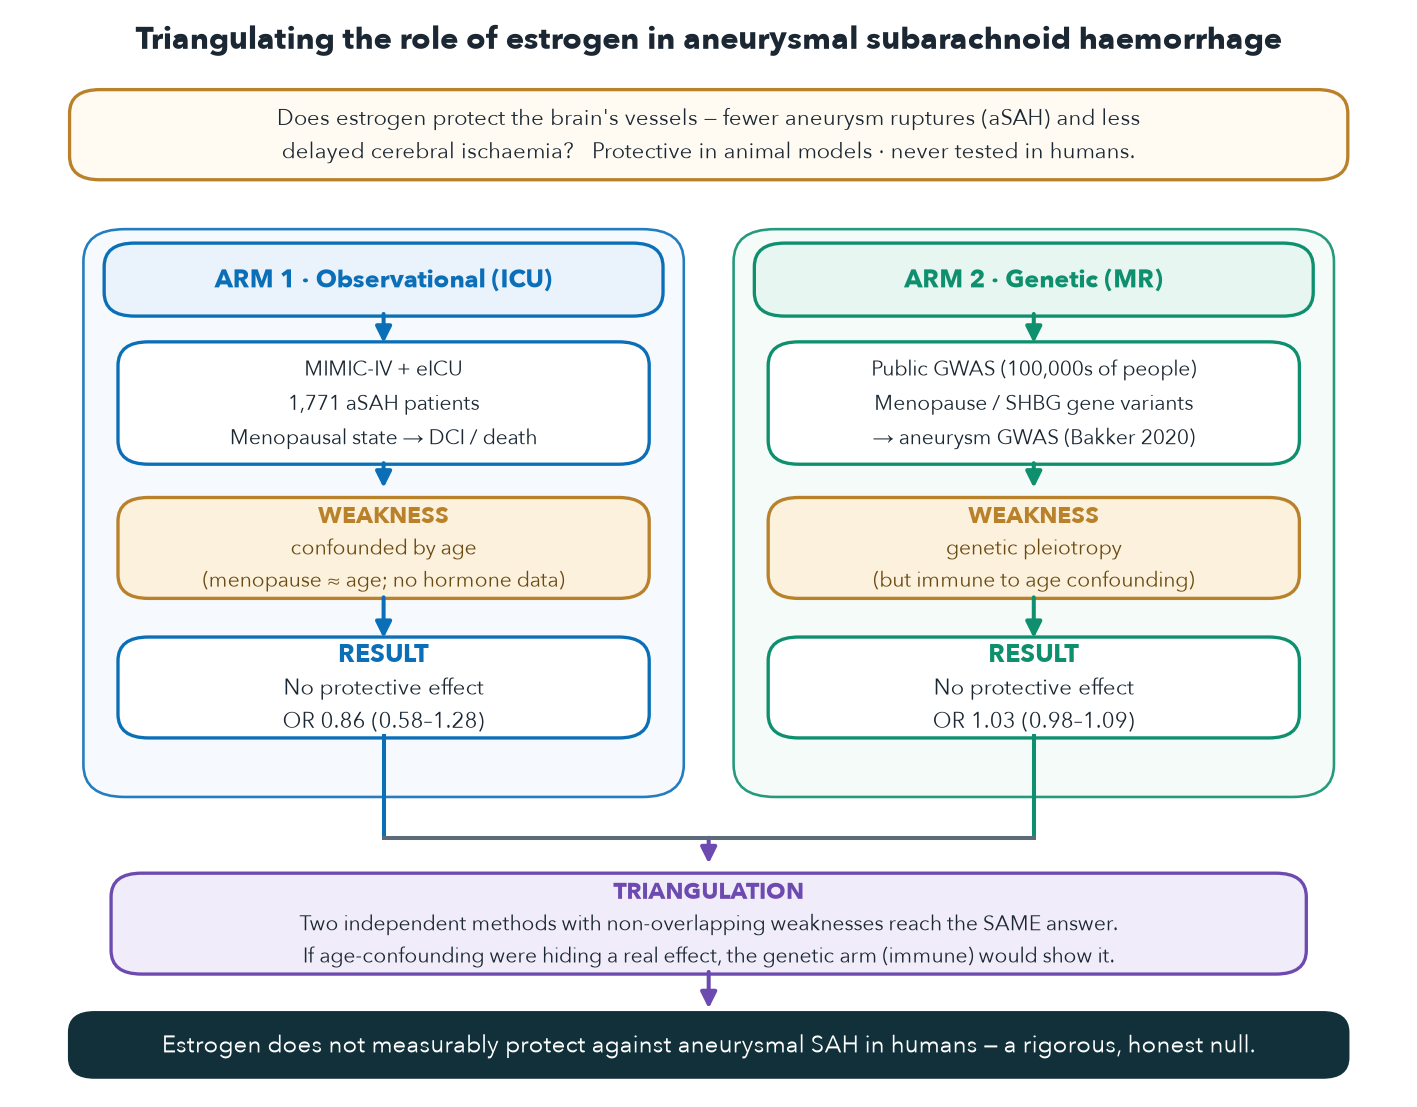
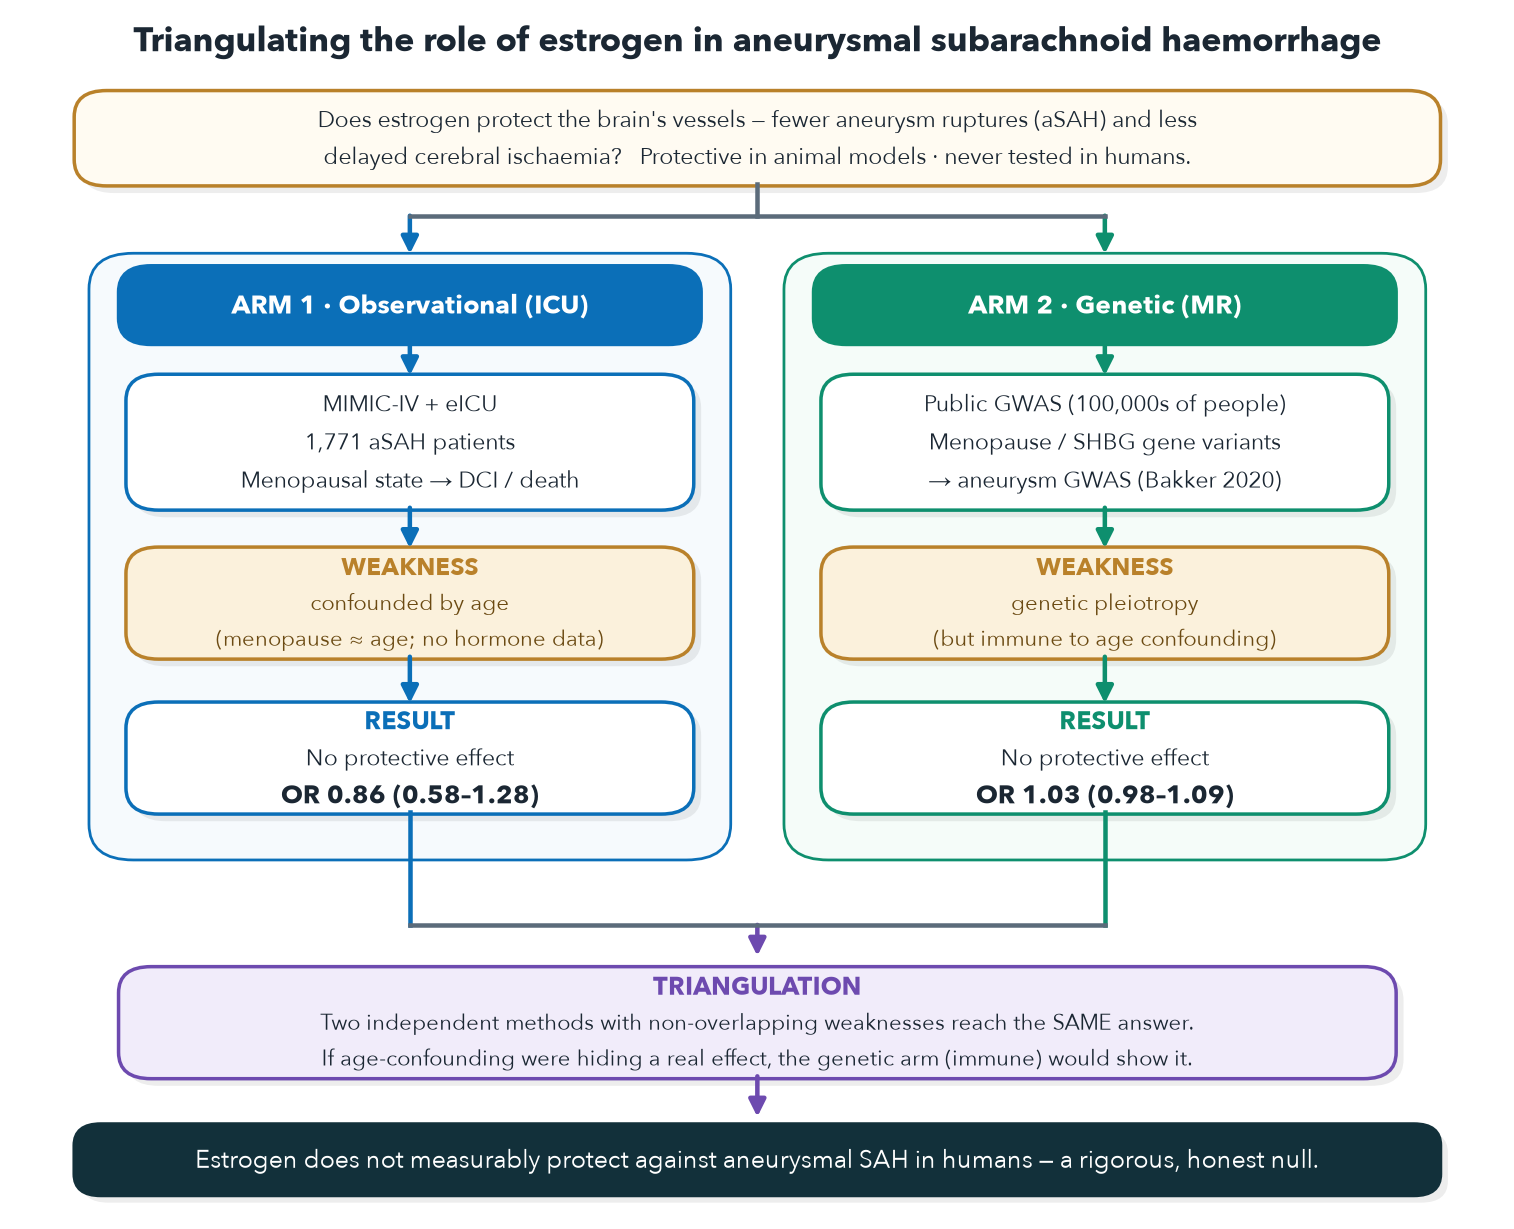
Figures: polish workflow diagram + add methods-only variant
- triangulation_workflow.png: solid header banners, drop shadows, symmetric
  top-fork/bottom-merge connectors, emphasized OR numbers
- triangulation_methods.png: methods-only (DATA/DESIGN/ANALYSIS pipeline per
  arm, no results or conclusion)
- both audited for text-fit, alignment, and connector cleanliness

Changed region(s): [[0.0311, 0.0, 0.9626, 0.8907], [0.1242, 0.9214, 0.9005, 0.9521]]

diff --git a/manuscript/figures/triangulation_workflow.py b/manuscript/figures/triangulation_workflow.py
@@ -1,7 +1,8 @@
 """One-page workflow diagram: triangulating the role of estrogen in aSAH.
 
-Design goals: swimlanes to group each arm, right-angle merge connectors (no
-diagonals), concise text properly centered in every box, restrained palette.
+Design: swimlanes per arm, solid header banners, soft drop shadows for depth,
+symmetric top-fork / bottom-merge right-angle connectors, emphasized result
+numbers, restrained palette, clean sans-serif, text centered in every box.
 """
 import matplotlib
 matplotlib.use("Agg")
@@ -12,102 +13,118 @@ from matplotlib.patches import FancyArrowPatch, FancyBboxPatch
 plt.rcParams.update({"font.family": ["Avenir Next", "Arial"], "font.size": 10})
 
 INK = "#1b2733"; MUTE = "#5b6b7a"
-BLUE = "#0B6FB8"; BLUE_BG = "#EAF3FB"; BLUE_PANEL = "#F5F9FD"
-GREEN = "#0E8F6E"; GREEN_BG = "#E8F6F1"; GREEN_PANEL = "#F4FBF8"
+BLUE = "#0B6FB8"; BLUE_BG = "#EAF3FB"; BLUE_PANEL = "#F6FAFD"
+GREEN = "#0E8F6E"; GREEN_BG = "#E8F6F1"; GREEN_PANEL = "#F5FCF9"
 PUR = "#6D4AAF"; PUR_BG = "#F1ECFA"
 AMBER = "#B9812A"; AMBER_BG = "#FBF1DC"
+SHADOW = (0, 0, 0, 0.07)
 
-fig, ax = plt.subplots(figsize=(10.5, 8.2)); ax.axis("off")
+fig, ax = plt.subplots(figsize=(10.6, 8.6)); ax.axis("off")
 ax.set_xlim(0, 100); ax.set_ylim(0, 100)
 
 
-def card(x, y, w, h, lines, *, head=None, fc="white", ec=BLUE, tc=INK,
-         head_c=None, fs=9.3, lh=3.3, rs=2.2, lw=1.4):
-    """A rounded card with vertically-centered, optionally-headed text."""
+def _round(x, y, w, h, fc, ec, lw, rs):
     ax.add_patch(FancyBboxPatch((x - w / 2, y - h / 2), w, h,
                  boxstyle=f"round,pad=0.2,rounding_size={rs}", fc=fc, ec=ec, lw=lw))
-    items = ([("__head__", head)] if head else []) + [("body", ln) for ln in lines]
+
+
+def card(x, y, w, h, lines, *, head=None, fc="white", ec=BLUE, tc=INK, head_c=None,
+         fs=9.3, lh=3.3, rs=2.2, lw=1.4, shadow=True, emph_last=False):
+    if shadow:
+        _round(x + 0.5, y - 0.6, w, h, SHADOW, "none", 0, rs)
+    _round(x, y, w, h, fc, ec, lw, rs)
+    items = ([("h", head)] if head else []) + [("b", ln) for ln in lines]
     total = (len(items) - 1) * lh
     top = y + total / 2
     for i, (kind, txt) in enumerate(items):
         yy = top - i * lh
-        if kind == "__head__":
+        if kind == "h":
             ax.text(x, yy, txt, ha="center", va="center", fontsize=fs + 1.0,
                     color=head_c or ec, fontweight="bold")
         else:
-            ax.text(x, yy, txt, ha="center", va="center", fontsize=fs, color=tc)
+            last = (i == len(items) - 1)
+            ax.text(x, yy, txt, ha="center", va="center",
+                    fontsize=fs + (1.3 if emph_last and last else 0),
+                    fontweight="bold" if emph_last and last else "normal", color=tc)
 
 
-def varrow(x, y1, y2, color=MUTE, lw=1.7):
+def varrow(x, y1, y2, color=MUTE, lw=1.8):
     ax.add_patch(FancyArrowPatch((x, y1), (x, y2), arrowstyle="-|>",
                  mutation_scale=14, color=color, lw=lw, shrinkA=0, shrinkB=0))
 
 
 # title
-ax.text(50, 97, "Triangulating the role of estrogen in aneurysmal subarachnoid haemorrhage",
-        ha="center", fontsize=13, fontweight="bold", color=INK)
+ax.text(50, 97.3, "Triangulating the role of estrogen in aneurysmal subarachnoid haemorrhage",
+        ha="center", fontsize=13.5, fontweight="bold", color=INK)
 
 # question
-card(50, 89, 92, 8, [
+card(50, 90, 92, 7.6, [
     "Does estrogen protect the brain's vessels — fewer aneurysm ruptures (aSAH) and less",
     "delayed cerebral ischaemia?   Protective in animal models · never tested in humans."],
     fc="#FFFBF2", ec=AMBER, fs=9.2, lh=3.1)
 
-# swimlane panels
-ax.add_patch(FancyBboxPatch((5, 27.5), 43, 52.5, boxstyle="round,pad=0.2,rounding_size=3",
-             fc=BLUE_PANEL, ec=BLUE, lw=1.1, alpha=0.9))
-ax.add_patch(FancyBboxPatch((52, 27.5), 43, 52.5, boxstyle="round,pad=0.2,rounding_size=3",
-             fc=GREEN_PANEL, ec=GREEN, lw=1.1, alpha=0.9))
+# top fork (question -> both arm headers), mirrors the bottom merge
+fork_y = 83.5
+ax.add_line(Line2D([50, 50], [86.2, fork_y], color=MUTE, lw=1.8))
+ax.add_line(Line2D([26.5, 73.5], [fork_y, fork_y], color=MUTE, lw=1.8))
+varrow(26.5, fork_y, 80.3, color=BLUE)
+varrow(73.5, fork_y, 80.3, color=GREEN)
 
-# headers
-card(26.5, 75.5, 40, 6.4, [], head="ARM 1 · Observational (ICU)", fc=BLUE_BG, ec=BLUE, fs=9.4)
-card(73.5, 75.5, 40, 6.4, [], head="ARM 2 · Genetic (MR)", fc=GREEN_BG, ec=GREEN, fs=9.4)
+# swimlane panels
+_round(26.5, 54.9, 43, 50.5, BLUE_PANEL, BLUE, 1.1, 3)
+_round(73.5, 54.9, 43, 50.5, GREEN_PANEL, GREEN, 1.1, 3)
+
+# solid header banners
+card(26.5, 76, 39, 6.2, [], head="ARM 1 · Observational (ICU)", fc=BLUE, ec=BLUE,
+     head_c="white", fs=9.6, shadow=False)
+card(73.5, 76, 39, 6.2, [], head="ARM 2 · Genetic (MR)", fc=GREEN, ec=GREEN,
+     head_c="white", fs=9.6, shadow=False)
 
 # setup
-card(26.5, 64, 38, 11, [
+card(26.5, 64.5, 38, 11, [
     "MIMIC-IV + eICU", "1,771 aSAH patients", "Menopausal state → DCI / death"],
     ec=BLUE, fs=9.1, lh=3.2)
-card(73.5, 64, 38, 11, [
+card(73.5, 64.5, 38, 11, [
     "Public GWAS (100,000s of people)", "Menopause / SHBG gene variants",
     "→ aneurysm GWAS (Bakker 2020)"], ec=GREEN, fs=9.1, lh=3.2)
 
 # weakness
-card(26.5, 50.5, 38, 9, ["confounded by age", "(menopause ≈ age; no hormone data)"],
+card(26.5, 51, 38, 9, ["confounded by age", "(menopause ≈ age; no hormone data)"],
      head="WEAKNESS", fc=AMBER_BG, ec=AMBER, tc="#6b4a12", fs=8.7, lh=3.0)
-card(73.5, 50.5, 38, 9, ["genetic pleiotropy", "(but immune to age confounding)"],
+card(73.5, 51, 38, 9, ["genetic pleiotropy", "(but immune to age confounding)"],
      head="WEAKNESS", fc=AMBER_BG, ec=AMBER, tc="#6b4a12", fs=8.7, lh=3.0)
 
-# result
-card(26.5, 37.5, 38, 9, ["No protective effect", "OR 0.86 (0.58–1.28)"],
-     head="RESULT", fc="white", ec=BLUE, fs=9.4, lh=3.1)
-card(73.5, 37.5, 38, 9, ["No protective effect", "OR 1.03 (0.98–1.09)"],
-     head="RESULT", fc="white", ec=GREEN, fs=9.4, lh=3.1)
+# result (emphasize the OR)
+card(26.5, 38, 38, 9, ["No protective effect", "OR 0.86 (0.58–1.28)"],
+     head="RESULT", fc="white", ec=BLUE, fs=9.2, lh=3.1, emph_last=True)
+card(73.5, 38, 38, 9, ["No protective effect", "OR 1.03 (0.98–1.09)"],
+     head="RESULT", fc="white", ec=GREEN, fs=9.2, lh=3.1, emph_last=True)
 
-# intra-lane arrows (between box edges)
+# intra-lane arrows
 for x, c in [(26.5, BLUE), (73.5, GREEN)]:
-    varrow(x, 72.3, 69.6, color=c)   # header -> setup
-    varrow(x, 58.4, 56.1, color=c)   # setup -> weakness
-    varrow(x, 45.9, 42.1, color=c)   # weakness -> result
+    varrow(x, 72.8, 70.1, color=c)
+    varrow(x, 59.0, 55.6, color=c)
+    varrow(x, 46.5, 42.6, color=c)
 
-# merge connectors (right-angle)
-rail = 23.5
+# bottom merge (right-angle)
+rail = 24
 for x, c in [(26.5, BLUE), (73.5, GREEN)]:
-    ax.add_line(Line2D([x, x], [33.0, rail], color=c, lw=1.7))
-ax.add_line(Line2D([26.5, 73.5], [rail, rail], color=MUTE, lw=1.7))
-varrow(50, rail, 21.1, color=PUR)
+    ax.add_line(Line2D([x, x], [33.5, rail], color=c, lw=1.8))
+ax.add_line(Line2D([26.5, 73.5], [rail, rail], color=MUTE, lw=1.8))
+varrow(50, rail, 21.4, color=PUR)
 
 # convergence
-card(50, 15.5, 86, 9, [
+card(50, 15.8, 86, 9, [
     "Two independent methods with non-overlapping weaknesses reach the SAME answer.",
     "If age-confounding were hiding a real effect, the genetic arm (immune) would show it."],
     head="TRIANGULATION", fc=PUR_BG, ec=PUR, fs=8.9, lh=3.0)
-varrow(50, 11.0, 7.6, color=PUR)
+varrow(50, 11.3, 7.9, color=PUR)
 
 # conclusion
-card(50, 4.2, 92, 5.6, [
+card(50, 4.3, 92, 5.6, [
     "Estrogen does not measurably protect against aneurysmal SAH in humans — a rigorous, honest null."],
-    fc="#12303a", ec="#12303a", tc="white", fs=10, rs=1.8)
+    fc="#12303a", ec="#12303a", tc="white", fs=10.2, rs=1.8, shadow=True)
 
 fig.savefig("/Volumes/Niels 2/MIMIC/estrogen-asah-dci/manuscript/figures/triangulation_workflow.png",
-            dpi=170, bbox_inches="tight", facecolor="white")
+            dpi=180, bbox_inches="tight", facecolor="white")
 print("saved")

diff --git a/manuscript/figures/triangulation_methods.py b/manuscript/figures/triangulation_methods.py
@@ -1,0 +1,132 @@
+"""Methods-only workflow: the two-arm triangulation DESIGN (no results).
+
+Same visual language as triangulation_workflow.py, but shows the analytical
+pipeline of each arm and ends at the triangulation step — no effect estimates,
+no conclusion.
+"""
+import matplotlib
+matplotlib.use("Agg")
+import matplotlib.pyplot as plt
+from matplotlib.lines import Line2D
+from matplotlib.patches import FancyArrowPatch, FancyBboxPatch
+
+plt.rcParams.update({"font.family": ["Avenir Next", "Arial"], "font.size": 10})
+
+INK = "#1b2733"; MUTE = "#5b6b7a"
+BLUE = "#0B6FB8"; BLUE_PANEL = "#F6FAFD"
+GREEN = "#0E8F6E"; GREEN_PANEL = "#F5FCF9"
+PUR = "#6D4AAF"; PUR_BG = "#F1ECFA"
+AMBER = "#B9812A"; AMBER_BG = "#FFFBF2"
+SHADOW = (0, 0, 0, 0.07)
+
+fig, ax = plt.subplots(figsize=(10.6, 8.8)); ax.axis("off")
+ax.set_xlim(0, 100); ax.set_ylim(0, 100)
+
+
+def _round(x, y, w, h, fc, ec, lw, rs):
+    ax.add_patch(FancyBboxPatch((x - w / 2, y - h / 2), w, h,
+                 boxstyle=f"round,pad=0.2,rounding_size={rs}", fc=fc, ec=ec, lw=lw))
+
+
+def card(x, y, w, h, lines, *, head=None, fc="white", ec=BLUE, tc=INK, head_c=None,
+         fs=9.1, lh=3.1, rs=2.2, lw=1.4, shadow=True):
+    if shadow:
+        _round(x + 0.5, y - 0.6, w, h, SHADOW, "none", 0, rs)
+    _round(x, y, w, h, fc, ec, lw, rs)
+    items = ([("h", head)] if head else []) + [("b", ln) for ln in lines]
+    total = (len(items) - 1) * lh
+    top = y + total / 2
+    for i, (kind, txt) in enumerate(items):
+        yy = top - i * lh
+        if kind == "h":
+            ax.text(x, yy, txt, ha="center", va="center", fontsize=fs + 0.4,
+                    color=head_c or ec, fontweight="bold")
+        else:
+            ax.text(x, yy, txt, ha="center", va="center", fontsize=fs, color=tc)
+
+
+def varrow(x, y1, y2, color=MUTE, lw=1.8):
+    ax.add_patch(FancyArrowPatch((x, y1), (x, y2), arrowstyle="-|>",
+                 mutation_scale=14, color=color, lw=lw, shrinkA=0, shrinkB=0))
+
+
+# title
+ax.text(50, 97.3, "Study design: triangulating the role of estrogen in aneurysmal SAH",
+        ha="center", fontsize=13.5, fontweight="bold", color=INK)
+
+# aim
+card(50, 90.5, 92, 7, [
+    "Aim: does estrogen influence the risk of aneurysmal SAH / delayed cerebral ischaemia?",
+    "Estimate with two designs whose biases do not overlap, then compare (triangulation)."],
+    fc=AMBER_BG, ec=AMBER, fs=9.2, lh=3.1)
+
+# top fork
+fork_y = 84
+ax.add_line(Line2D([50, 50], [86.8, fork_y], color=MUTE, lw=1.8))
+ax.add_line(Line2D([26.5, 73.5], [fork_y, fork_y], color=MUTE, lw=1.8))
+varrow(26.5, fork_y, 80.8, color=BLUE)
+varrow(73.5, fork_y, 80.8, color=GREEN)
+
+# panels
+_round(26.5, 52.5, 43, 55, BLUE_PANEL, BLUE, 1.1, 3)
+_round(73.5, 52.5, 43, 55, GREEN_PANEL, GREEN, 1.1, 3)
+
+# headers
+card(26.5, 76.5, 39, 6, [], head="ARM 1 · Observational (ICU)", fc=BLUE, ec=BLUE,
+     head_c="white", fs=9.6, shadow=False)
+card(73.5, 76.5, 39, 6, [], head="ARM 2 · Genetic (Mendelian randomization)", fc=GREEN,
+     ec=GREEN, head_c="white", fs=8.9, shadow=False)
+
+# --- Arm 1 steps ---
+card(26.5, 66, 38, 10.5, [
+    "MIMIC-IV + eICU", "aneurysmal SAH cohort (n = 1,771)"],
+    head="DATA", fc="white", ec=BLUE, fs=9.0, lh=3.0)
+card(26.5, 52.5, 38, 12.5, [
+    "Exposure: menopausal state (age proxy)",
+    "Outcome: DCI / vasospasm, mortality",
+    "Covariates: hypertension, smoking, diabetes"],
+    head="DESIGN", fc="white", ec=BLUE, fs=8.8, lh=3.0)
+card(26.5, 37.5, 38, 12.5, [
+    "Multilevel logistic + IPTW",
+    "Specification curve (all forks)",
+    "Age × sex difference-in-differences"],
+    head="ANALYSIS", fc="white", ec=BLUE, fs=8.8, lh=3.0)
+
+# --- Arm 2 steps ---
+card(73.5, 66, 38, 10.5, [
+    "Public GWAS summary statistics",
+    "Exposures: menopause, SHBG, testosterone"],
+    head="DATA", fc="white", ec=GREEN, fs=9.0, lh=3.0)
+card(73.5, 52.5, 38, 12.5, [
+    "Instruments: genome-wide SNPs (p<5e-8)",
+    "Clump + allele harmonization",
+    "Outcome: aneurysm GWAS (Bakker 2020)"],
+    head="INSTRUMENTS", fc="white", ec=GREEN, fs=8.8, lh=3.0)
+card(73.5, 37.5, 38, 12.5, [
+    "Two-sample MR: IVW, MR-Egger,",
+    "weighted median",
+    "Sensitivity: Steiger, MR-PRESSO, leave-one-out"],
+    head="ANALYSIS", fc="white", ec=GREEN, fs=8.5, lh=3.0)
+
+# intra-lane arrows
+for x, c in [(26.5, BLUE), (73.5, GREEN)]:
+    varrow(x, 73.3, 71.4, color=c)   # header -> data
+    varrow(x, 60.6, 58.9, color=c)   # data -> design
+    varrow(x, 46.2, 43.9, color=c)   # design -> analysis
+
+# merge
+rail = 22.5
+for x, c in [(26.5, BLUE), (73.5, GREEN)]:
+    ax.add_line(Line2D([x, x], [31.2, rail], color=c, lw=1.8))
+ax.add_line(Line2D([26.5, 73.5], [rail, rail], color=MUTE, lw=1.8))
+varrow(50, rail, 17.3, color=PUR)
+
+# triangulation (design statement, not a result)
+card(50, 10.5, 86, 10.5, [
+    "Compare the estrogen–aSAH association across both designs. Because their biases do not",
+    "overlap, concordance strengthens — and discordance localizes — the causal interpretation."],
+    head="TRIANGULATION", fc=PUR_BG, ec=PUR, fs=8.8, lh=3.1)
+
+fig.savefig("/Volumes/Niels 2/MIMIC/estrogen-asah-dci/manuscript/figures/triangulation_methods.png",
+            dpi=180, bbox_inches="tight", facecolor="white")
+print("saved")
